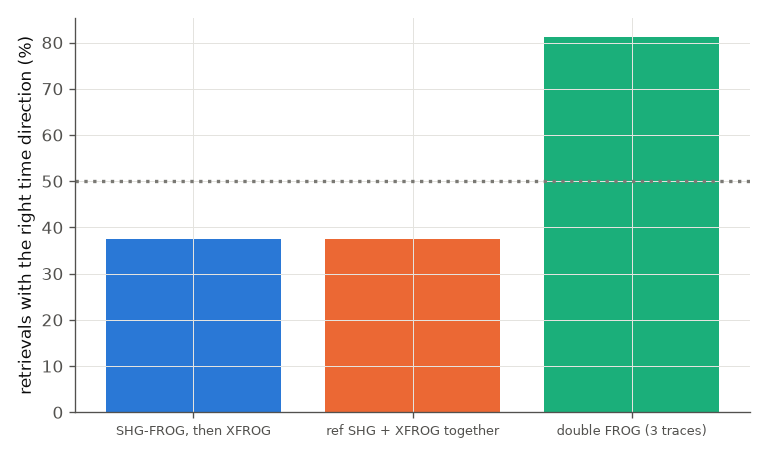
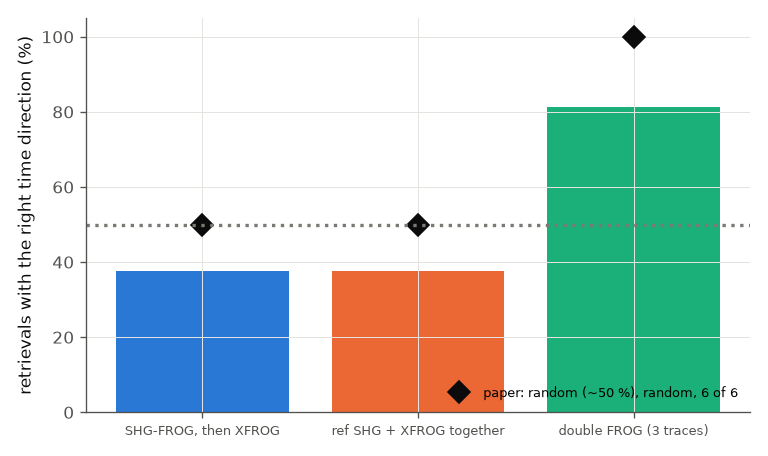
Component tests: media and chi2 families; progress notes

diff --git a/docs/papers/kaur-2024-mpc-ner-xpw/run.py b/docs/papers/kaur-2024-mpc-ner-xpw/run.py
@@ -144,11 +144,11 @@ def main():
     numbers["linearLeak"] = e0
 
     # ---- 2. engine vs the instantaneous-Kerr analytic law (the same Jones calculus), small dispersion -----------------------------
-    # 0.5 m of argon at 1 bar, B(linear) ~ a few rad: dispersion is ~ 9 fs2, negligible against T0^2 = 324 fs2
-    sysd = b.system("ner-plane", [{"id": "cell", "type": "bulk", "material": "Ar", "lengthM": 0.5, "beam": {"kind": "constant", "radiusM": 0.5e-3}}],
+    # 0.5 m of argon at 1 bar in a 0.3 mm beam: B(linear) up to ~ 10 rad, dispersion ~ 9 fs2 (negligible against T0^2 = 324 fs2)
+    sysd = b.system("ner-plane", [{"id": "cell", "type": "bulk", "material": "Ar", "lengthM": 0.5, "beam": {"kind": "constant", "radiusM": 0.3e-3}}],
                     materials={"Ar": b.material(gas=b.gas("Ar", 1.0, 293.15))})
     chk = []
-    for en in ([2e-5, 5e-5, 1e-4] if fast else [1e-5, 2e-5, 5e-5, 1e-4, 2e-4]):
+    for en in ([0.5e-3, 1e-3, 2e-3] if fast else [0.25e-3, 0.5e-3, 1e-3, 1.5e-3, 2e-3, 3e-3]):
         r = uf.run(sysd, spec(en, alpha, steepening=False))
         rl = uf.run(sysd, spec(en, alpha, linear=True, steepening=False))
         eff, _, _ = ner_efficiency(r, alpha)
@@ -173,7 +173,7 @@ def main():
     numbers["analyticBFor90degPeak_eps25"] = (math.pi / 2) * 3 / math.sin(2 * math.atan(0.25))
 
     # ---- 4. pressure scans, constant 1.45 mm beam ---------------------------------------------------------------------------------------
-    pr_axis = np.arange(0.05, 2.01, 0.05 if fast else 0.025)
+    pr_axis = np.arange(0.05, 3.01, 0.05 if fast else 0.025)
     scans = {}
     for eps in (0.25, 0.18, 0.15):
         scans[eps] = scan(eps, pr_axis)
@@ -209,13 +209,17 @@ def main():
     numbers["effWithLeak_eps18"] = eff
 
     # ---- 6. caustic reading (stated waist 450 um): B per bar and where the optimum falls ------------------------------------------------
-    pr_c = np.array([0.02, 0.05, 0.1, 0.2, 0.4] if fast else [0.01, 0.02, 0.03, 0.05, 0.075, 0.1, 0.15, 0.2, 0.3, 0.4, 0.6, 0.8])
+    pr_c = np.array([0.02, 0.05, 0.1, 0.2, 0.4, 0.6] if fast else [0.01, 0.02, 0.03, 0.05, 0.075, 0.1, 0.15, 0.2, 0.3, 0.4, 0.6, 0.8])
     sc = scan(0.25, pr_c, beam="caustic")
     e_c = np.array([s["eff"] for s in sc])
     numbers["bLinAt400mbar_caustic"] = float(np.interp(0.4, pr_c, [s["bLin"] for s in sc])) if pr_c[-1] >= 0.4 else float("nan")
     jc = int(np.argmax(e_c))
     numbers["pAtMaxEff_eps25_caustic_bar"] = float(pr_c[jc])
     numbers["maxEff_eps25_caustic"] = float(e_c[jc])
+    sc18 = scan(0.18, [0.42], beam="caustic")[0]
+    numbers["effAt420mbar_eps18_caustic"] = sc18["eff"]
+    numbers["bLinAt420mbar_caustic"] = sc18["bLin"]
+    numbers["ftlAt420mbarFs_eps18_caustic"] = sc18["ftlFs"]
 
     # ---- 7. XPW side numbers (engine has no anisotropic chi3: repro_2.py) ---------------------------------------------------------------
     # P/Pcr for BaF2 with a literature n2 (UNVERIFIED: not from the paper) at 1 mJ, 30 fs

diff --git a/docs/papers/treacy-1969-grating-pulse-compression/run.py b/docs/papers/treacy-1969-grating-pulse-compression/run.py
@@ -83,7 +83,7 @@ class Pair:
         return self.inv_mu(bm) / self.w0 * 3 * (1 + self.lam / D * math.sin(GAMMA) - math.sin(GAMMA) ** 2) / (1 - self.x ** 2)
 
 
-def exact_phase_width(pr, g, t0, phi_in, n=1 << 15):
+def exact_phase_width(pr, g, t0, phi_in, n=1 << 13):
     """FWHM of the output of a Gaussian pulse (transform-limited FWHM t0, group-delay dispersion phi_in) through the pair at perpendicular
     separation g, with the exact phase: the integral of the exact group delay of eq. (4)/(7) over frequency, all orders."""
     sig = 2 * math.pi * 0.4413 / t0                         # FWHM of the intensity spectrum, rad/s
@@ -97,7 +97,11 @@ def exact_phase_width(pr, g, t0, phi_in, n=1 << 15):
     spec = amp * np.exp(1j * (phase + 0.5 * phi_in * dw ** 2))
     field = np.fft.fftshift(np.fft.ifft(np.fft.ifftshift(spec)))
     t = np.fft.fftshift(np.fft.fftfreq(n, d=step / (2 * math.pi)))
-    i = np.abs(field) ** 2
+    k = int(np.argmax(np.abs(field) ** 2))
+    half = np.abs(field[k]) ** 2 / 2
+    width = float(np.sum(np.abs(field) ** 2 > half)) * (t[1] - t[0])           # coarse width, to place a fine time grid
+    tf = t[k] + np.linspace(-1.2 * width, 1.2 * width, 1201)                     # the FFT's time step is too coarse for a 180 fs FWHM
+    i = np.abs(np.array([np.sum(spec * np.exp(-1j * dw * x)) for x in tf])) ** 2
     k = int(np.argmax(i))
     half = i[k] / 2
     lo = k
@@ -106,8 +110,8 @@ def exact_phase_width(pr, g, t0, phi_in, n=1 << 15):
     hi = k
     while i[hi] > half:
         hi += 1
-    tl_ = t[lo] + (half - i[lo]) * (t[lo + 1] - t[lo]) / (i[lo + 1] - i[lo])
-    th_ = t[hi - 1] + (half - i[hi - 1]) * (t[hi] - t[hi - 1]) / (i[hi] - i[hi - 1])
+    tl_ = tf[lo] + (half - i[lo]) * (tf[lo + 1] - tf[lo]) / (i[lo + 1] - i[lo])
+    th_ = tf[hi - 1] + (half - i[hi - 1]) * (tf[hi] - tf[hi - 1]) / (i[hi] - i[hi - 1])
     return th_ - tl_
 
 

diff --git a/docs/papers/kane-1993-frog/README.md b/docs/papers/kane-1993-frog/README.md
@@ -1,11 +1,11 @@
 # Kane & Trebino 1993 -- frequency-resolved optical gating (FROG)
 
-Paper: D. J. Kane and R. Trebino, IEEE J. Quantum Electron. 29, 571 (1993), doi 10.1109/3.199311 (not open access).
-
-**Was the paper readable?** Text yes, figures no. The PDF's text layer was extracted (the PDF page renderer was not
+**Was the paper readable?** Text yes, figures no. The whole PDF's text layer (9 pages, including appendices A-C) was extracted with pypdf (the PDF page renderer was not
 available in this environment), so every sentence, equation description and appendix was read. The figures were not
 viewed: no number below is read off a graph; what the figures show (Figs. 5-11) is UNVERIFIED here. The fit
 coefficients of Eqs. (5)-(7) were taken from the text layer and may carry OCR errors.
+
+Paper: D. J. Kane and R. Trebino, IEEE J. Quantum Electron. 29, 571 (1993), doi 10.1109/3.199311 (not open access).
 
 ## What FROG is (for a reader who has not seen the paper)
 
@@ -43,11 +43,12 @@ quoted with its location. "Ours" is from the full tier.
 | SD trace: mean frequency slope / chirp rate | 4/3 (App. C: w = 3/4 a t) | 1.33333 | agrees |
 | PG trace: slope / chirp rate | 2/3 (App. C: w = 3/2 a t) | 0.66667 (numpy); 0.66667 (engine `frog` pg) | agrees |
 | SHG-FROG trace symmetric in delay | yes (Eq. B2) | asymmetry 0 (numpy), 3e-16 (engine) | agrees |
+| SHG-FROG trace of a pulse and of its time-reversed twin (GDD +/-6247 fs^2) | identical (App. B) | engine `frog` shg: max difference 1e-15; the PG traces differ by 0.45 of the peak | agrees |
 | SHG-FROG retrieval: direction of time | ambiguous (App. B) | PCGPA on the engine's SHG trace returns GDD = +6247 and -6247 fs^2 for different seeds (12 seeds) | agrees |
 | PG-FROG retrieval | no such ambiguity | GDD = +6246.6 fs^2 (true +6247.05), G = 7e-6 | agrees |
 | integral of the SD trace over frequency = third-order autocorrelation (p. 575) | identity | difference < 1e-15 | agrees |
 | third-order autocorrelation FWHM of the 200 fs pulse | not given (Fig. 9, UNVERIFIED) | 245.0 fs = sqrt(3/2) x 200 fs (analytic 244.95); engine PG marginal 245.2 fs | analytic check |
-| 3 mm BK-7, 25 GW/cm^2: B integral | "negligible spectral broadening" (p. 574, no number) | B = 0.255 rad (analytic from the engine's own peak intensity 0.252); spectral rms width +8 %, FWHM +13 % (engine and a numpy Kerr step agree to 3e-7) | see below |
+| 3 mm BK-7, 25 GW/cm^2: B integral | "negligible spectral broadening" (p. 574, no number) | B = 0.255 rad (2 pi/lambda n2 I L with the paper's 25 GW/cm^2 and the library n2 = 3.4e-20 m^2/W gives 0.258; the engine is 1.3 % lower because the chirped pulse disperses in the window); spectral rms width +8 %, FWHM +13 % (engine and a numpy Kerr step agree to 3e-7) | see below |
 | 3 mm BK-7: GDD at 620 nm | "negligible" (p. 574, no number) | 196 fs^2 (3 % FWHM change) | consistent |
 | fitted pulse (Eqs. 5-7): FWHM | "about 200 fs" (p. 575) | 204.3 fs (engine from spectrum + phase: 205.2 fs) | agrees (coefficients UNVERIFIED) |
 | fitted pulse: chirp-to-transform-limit | ~2 (p. 575) | 2.07 | agrees |
@@ -102,5 +103,10 @@ its spectrum with and without the fitted phase (right).
 * **Not reproduced:** the experimental trace and its fit residuals (no data), the 33 x 33 resampling and
   Fig. 11's spectra. The paper's own retrieval algorithm is announced as future work in the paper; the engine's PCGPA
   and ePIE are for SHG / PG and are used on those traces.
-* The checks in `checks.json` compare the engine with the paper's appendix laws and with analytic Gaussian results; the
-  tests in the BK-7 and fitted-pulse sections that rely on text-layer numbers are marked soft (`hard: false`).
+* The checks in `checks.json` compare the engine with the paper's appendix laws and with analytic Gaussian results.
+  The B integral and peak-intensity checks of the BK-7 window are hard (they use the paper's 25 GW/cm^2 and the
+  library n2); the fitted-pulse numbers that come from the text layer, and the random-seed sign check of the SHG
+  retrieval, are soft (`hard: false`).
+* **API pitfall found on the way:** `uf.retrieve("pcgpa", {dict from a pg instrument})` without `kind="pg-frog"` silently
+  runs an SHG retrieval (G = 2 %, centre wavelength 1.24 um instead of 620 nm). The dict path defaults to `shg-frog`; no
+  warning is given. With `kind="pg-frog"` G = 7e-6. Not changed here.

diff --git a/docs/papers/kida-2014-double-frog/README.md b/docs/papers/kida-2014-double-frog/README.md
@@ -1,10 +1,10 @@
 # Kida et al. 2014 -- "double FROG" (SHG-FROG + XFROG analysed together)
 
-Paper: Y. Kida, Y. Nakano, K. Motoyoshi, T. Imasaka, Opt. Lett. 39, 3006 (2014), doi 10.1364/OL.39.003006 (not open access).
-
 **Was the paper readable?** Text yes (4 pages, text layer extracted; the PDF page renderer was unavailable), figures no.
 All numbers below come from the text. The retrieved intensities and phases of Figs. 4, 5, 7 and the traces of
 Fig. 3 were not seen: UNVERIFIED and not used.
+
+Paper: Y. Kida, Y. Nakano, K. Motoyoshi, T. Imasaka, Opt. Lett. 39, 3006 (2014), doi 10.1364/OL.39.003006 (not open access).
 
 ## The idea
 
@@ -78,7 +78,7 @@ Fraction of retrievals with both pulses in the right time direction (dotted: 50 
 ## What does not reproduce
 
 1. **Double FROG removing the ambiguity in every retrieval.** Ours removes it in 81 % (13 of 16) in the full tier, 4 of 6 in
-   the fast tier; the remaining starts stagnate in a wrong-direction solution. Not an engine issue: the algorithm is
+   the fast tier; the remaining starts stagnate in a wrong-direction solution. Not an engine issue, and therefore no engine reproduction exists to reduce it to: the algorithm is
    our numpy implementation of Fig. 6 with a 40 fs random-phase start, one projection step per trace, no tuning
    (the paper does not state its start or step details). Facts that support the paper's physical claim: without
    noise the correct solution reaches G = 0 while the stuck solutions stay at G = 0.0032 (so the three traces do
@@ -99,4 +99,6 @@ Fraction of retrievals with both pulses in the right time direction (dotted: 50 
   (ordering, ratios) are tested. `KIDA_NOISE` and `KIDA_ITERS` environment variables exist only for the sensitivity
   statements above (noise 0 and 1 %: right-direction fraction unchanged at 4 of 6 in the fast tier).
 * The XFROG delay range is the full circle of the grid, not the single signal at +tau the paper records.
+* **API pitfall found on the way** (also in the Kane README): `uf.retrieve("pcgpa", dict)` defaults to `shg-frog`; a PG trace
+  given as a dict without `kind="pg-frog"` is retrieved wrongly and silently.
 * UNVERIFIED (figures not seen): retrieved pulse shapes and phases, the double-FROG trace itself, the 50 s scan time effect.

diff --git a/docs/design/progress-2026-11-consolidate.md b/docs/design/progress-2026-11-consolidate.md
@@ -37,3 +37,15 @@ agents must not edit C# or rebuild the engine while others run; engine bugs are 
 ## Environment
 `export ULTRAFAST_LIBRARY=$PWD/python/src/ultrafast/bin/hosted/UltrafastEngine.Native.dll PYTHONPATH=python/src ULTRAFAST_STRICT_OPTIONS=1 MPLBACKEND=Agg`
 and use `.venv/bin/python`. Rebuild the engine only with no agents running: `.venv/bin/python python/tools/build_engine.py`.
+
+## Update: `media.py` and `crystals_chi2.py` done (agent report)
+* `media.py`: 231 checks (228 ok, 3 KNOWN, 0 FAIL); `crystals_chi2.py`: 174 checks, all ok. Not yet in `FAMILIES` of `run_all.py`.
+* **Engine findings for the owner**
+  1. KNOWN bug: pure SPM in a dispersion-free fibre at 2 µm, 10 fs, auto grid changes |A(t)|² by 6 % of peak at B = 3 and loses
+     energy (2e-5); at 1030 nm the change is 5e-4. The carrier-centred grid reaches ω ≤ 0 at 2 µm. Repro:
+     `tests/components/repro/fiber_spm_2um_10fs.py`.
+  2. Element-level `selfSteepening: false` on a fibre did not switch it off in one test; only `physics.selfSteepening` did (not chased).
+  3. At 10 fs the SPM phase deviates 4-6 mrad from γPL at 515 / 1030 nm, erratic with grid size (auto-grid sampling suspected).
+  4. A coarse D(λ) table (53 points) gives up to 0.8 % error in β2 near D = 0.
+  5. `own.gddS2` of a D(λ) fibre at 2 µm is 0.4 % from β2·L at `reportOmega0`.
+* Not tested: rotational revival (C# `GasTests`), bulk Raman gain, walk-off in a real run, depleted OPA, type-II SHG efficiency.
